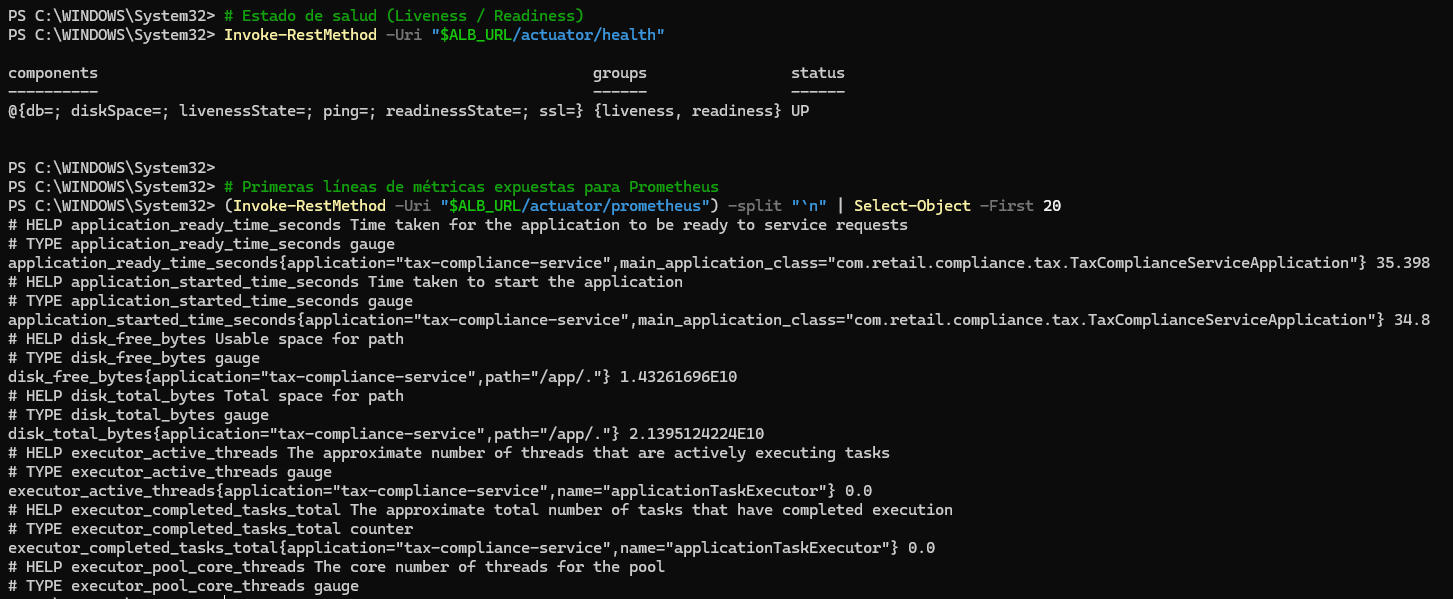
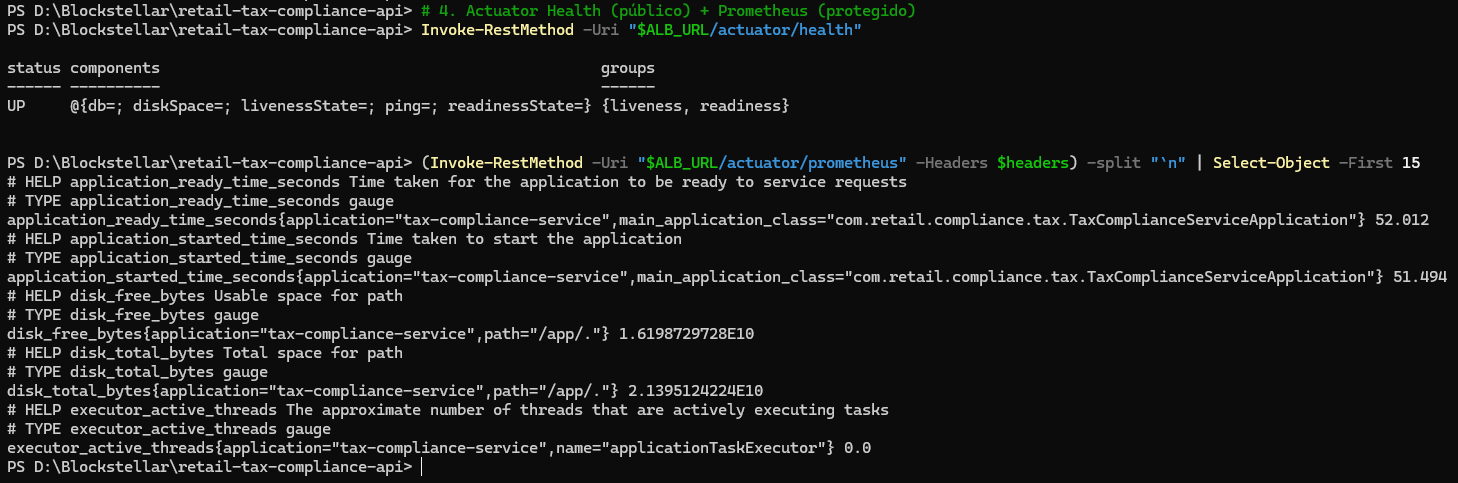
docs: update README with full guide, security notes and final screenshots

Changed region(s): [[0.0, 0.0, 0.9911, 0.9938]]

diff --git a/README.md b/README.md
@@ -1,8 +1,8 @@
 # Retail Tax & Compliance API (`tax-compliance-service`)
 
-Microservicio REST cloud-native desarrollado con **Java 21** y **Spring Boot 3** para el cálculo automatizado de impuestos indirectos (IVA/VAT) y validación de facturación internacional en operaciones de comercio minorista (*retail*), con persistencia en **PostgreSQL 16**, despliegue automatizado en **AWS EKS** mediante **Terraform** y **Kubernetes**, pipeline **CI/CD con GitHub Actions** y observabilidad en tiempo real con **Prometheus** y **Grafana**.
+Microservicio REST cloud-native desarrollado con **Java 21** y **Spring Boot 3** para el cálculo automatizado de impuestos indirectos (IVA/VAT) y validación de facturación internacional en operaciones de comercio minorista (*retail*), con persistencia en **PostgreSQL 16**, pipeline CI/CD en **GitHub Actions**, despliegue automatizado en **AWS EKS** mediante **Terraform** y **Kubernetes**, y observabilidad en tiempo real con **Prometheus** y **Grafana**.
 
-> **Nota de Alcance:** Este proyecto constituye una **demostración tecnológica (Proof of Concept)** orientada a arquitectura Cloud y DevOps. Opera con un conjunto acotado de países (`ES`, `FR`, `DE`, `PT`) y reglas fiscales básicas, sin constituir una solución certificada de cumplimiento tributario oficial.
+> **Alcance del Proyecto:** Este sistema constituye una **prueba de concepto tecnológica (PoC)** centrada en un conjunto acotado de países europeos (`ES`, `FR`, `DE`, `PT`) y reglas fiscales representativas. No sustituye a una solución certificada de cumplimiento tributario en producción.
 
 ---
 
@@ -10,36 +10,21 @@ Microservicio REST cloud-native desarrollado con **Java 21** y **Spring Boot 3**
 
 ![Diagrama de Arquitectura](docs/architecture.png)
 
-El sistema sigue una arquitectura desacoplada sobre **Amazon EKS** en una única región (`eu-west-1`) dividida en dos namespaces aislados:
+La arquitectura separa responsabilidades mediante dos namespaces aislados dentro de **Amazon EKS (`eu-west-1`)**:
 
-* **`tax-app`:** Expone el microservicio `tax-compliance-api` (2 réplicas detrás de un AWS Load Balancer) conectado por red interna (`ClusterIP`) a un `StatefulSet` de PostgreSQL 16 respaldado por almacenamiento persistente EBS (`gp2`) gestionado mediante el driver `aws-ebs-csi-driver`.
-    * *Decisión de arquitectura:* Se despliega PostgreSQL dentro del clúster para optimizar costes en el entorno de demostración; en un escenario productivo se migraría a **Amazon RDS** gestionado con alta disponibilidad Multi-AZ.
-* **`monitoring`:** Ejecuta el stack de observabilidad (`kube-prometheus-stack`), recolectando métricas autenticadas mediante un `ServiceMonitor` desde `/actuator/prometheus` y evaluando reglas de alerta personalizadas (`PrometheusRule`).
-
----
-
-## Seguridad, CI/CD y FinOps
-
-* **Seguridad de Endpoints y Credenciales:**
-    * Los endpoints de auditoría (`/api/v1/compliance/audits`) y métricas (`/actuator/prometheus`) están protegidos mediante **Spring Security (HTTP Basic)** con credenciales inyectadas desde `Secrets` de Kubernetes (`tax-app-secret` y `prometheus-scrape-secret`), sin credenciales almacenadas en el repositorio.
-    * **Grafana** permanece aislado en red interna (`ClusterIP`) sin exposición pública a Internet, accediendo únicamente mediante túnel cifrado (`kubectl port-forward`).
-    * **Principio de mínimo privilegio en IAM:** El grupo de nodos de EKS limita sus políticas adicionales exclusivamente a `AmazonEBSCSIDriverPolicy` para la gestión de volúmenes persistentes.
-* **Automatización CI/CD (GitHub Actions):**
-    * Workflow `.github/workflows/ci-cd.yml` que ejecuta automáticamente los tests unitarios con Maven y base de datos en memoria H2, construye la imagen Docker multi-stage y la publica en DockerHub (`romeroperezpaula/tax-compliance-service:latest` y tag por SHA de commit) en cada `push` a `main`.
-* **Gestión de Costes (FinOps):**
-    * Desarrollo y pruebas iniciales 100 % en local con Docker Compose, desplegando en AWS únicamente durante la fase de validación y grabación.
-    * Alerta presupuestaria configurada en **AWS Budgets** ($15.00 USD/mes) y destrucción completa de recursos mediante `terraform destroy` verificando ausencia de volúmenes EBS o Load Balancers residuales.
+* **`tax-app`:** Ejecuta 2 réplicas del microservicio `tax-compliance-api` detrás de un **AWS Load Balancer (ELB)** público, conectadas por red interna (`ClusterIP`) a un `StatefulSet` de **PostgreSQL 16** respaldado por almacenamiento persistente **AWS EBS CSI (`gp2`)**. *(Nota de diseño: para esta demo se despliega PostgreSQL dentro del clúster para optimizar costes; en un entorno productivo de alta disponibilidad se valoraría migrar a **Amazon RDS**).*
+* **`monitoring`:** Ejecuta `kube-prometheus-stack` (Prometheus + Grafana). Prometheus recolecta métricas autenticadas desde `/actuator/prometheus` mediante un `ServiceMonitor` con `basicAuth`. **Grafana permanece aislado en red interna (`ClusterIP`)** sin exposición pública, accediendo exclusivamente mediante túnel cifrado (`kubectl port-forward`).
 
 ---
 
-## Stack Tecnológico
+## Seguridad, Automatización y FinOps
 
-* **Backend:** Java 21, Spring Boot 3.3.5 (Spring Web, Spring Data JPA, Spring Security, Validation, Actuator + Micrometer Prometheus)
-* **Base de Datos:** PostgreSQL 16 (`postgres:16-alpine`) con almacenamiento persistente EBS (`gp2`) + H2 para tests CI
-* **Contenedorización y CI/CD:** Docker (build multi-stage), DockerHub y GitHub Actions
-* **Infraestructura como Código (IaC):** Terraform (`terraform-aws-modules/vpc/aws` y `terraform-aws-modules/eks/aws` en `eu-west-1`)
-* **Orquestación:** Kubernetes en Amazon EKS (Namespaces, ConfigMaps, Secrets, StatefulSets, PVCs, Deployments con Liveness/Readiness probes, Services LoadBalancer/ClusterIP)
-* **Observabilidad y Alertas:** `kube-prometheus-stack` (Helm), `ServiceMonitor` autenticado y `PrometheusRule`
+* **Seguridad Aplicada:**
+    * Endpoints sensibles (`/api/v1/compliance/audits` y `/actuator/prometheus`) protegidos mediante **Spring Security (HTTP Basic Auth)** con credenciales inyectadas desde **Kubernetes Secrets** (sin credenciales hardcodeadas en el repositorio).
+    * Imagen Docker multi-stage ejecutada bajo usuario sin privilegios (`spring`).
+    * Principio de mínimo privilegio en los roles IAM de EKS (`AmazonEBSCSIDriverPolicy`).
+* **CI/CD con GitHub Actions:** Cada `push` a `main` ejecuta automáticamente los tests unitarios con Maven y H2, construye la imagen Docker y la publica en DockerHub (`romeroperezpaula/tax-compliance-service:latest` y tag por SHA de commit).
+* **Control FinOps:** Desarrollo local-primero con Docker Compose, presupuesto configurado en **AWS Budgets ($15.00 USD)** con alertas al 80 % y destrucción completa de infraestructura tras las pruebas (`terraform destroy`).
 
 ---
 
@@ -47,12 +32,12 @@ El sistema sigue una arquitectura desacoplada sobre **Amazon EKS** en una única
 
 | Método | Ruta | Acceso | Descripción |
 | :--- | :--- | :--- | :--- |
-| `GET` | `/api/v1/tax-rules/{countryCode}` | Público | Consulta los tipos impositivos vigentes y regex de validación fiscal por país (`ES`, `FR`, `DE`, `PT`) |
-| `POST` | `/api/v1/tax/calculate` | Público | Calcula el impuesto aplicable y el importe total según país, `baseAmount` y `productCategory` |
-| `POST` | `/api/v1/compliance/validate-invoice` | Público | Valida una factura (formato NIF/VAT y cuadre de importes) y registra la auditoría en PostgreSQL |
-| `GET` | `/api/v1/compliance/audits` | Protegido (Basic Auth) | Lista el historial de auditorías registradas |
-| `GET` | `/actuator/health` | Público | Estado de salud del microservicio (`liveness` y `readiness`) |
-| `GET` | `/actuator/prometheus` | Protegido (Basic Auth) | Métricas JVM, CPU y tráfico HTTP en formato Prometheus |
+| `GET` | `/api/v1/tax-rules/{countryCode}` | Público | Consulta los tipos impositivos y regex fiscal vigentes (`ES`, `FR`, `DE`, `PT`) |
+| `POST` | `/api/v1/tax/calculate` | Público | Calcula el IVA aplicable y el importe total según país, `baseAmount` y `productCategory` |
+| `POST` | `/api/v1/compliance/validate-invoice` | Público | Valida una factura (formato NIF/VAT y cuadre fiscal) y registra la auditoría en PostgreSQL |
+| `GET` | `/api/v1/compliance/audits` | **Basic Auth** | Lista el historial de auditorías registradas |
+| `GET` | `/actuator/health` | Público | Estado de salud (`liveness` y `readiness`) para las sondas de Kubernetes |
+| `GET` | `/actuator/prometheus` | **Basic Auth** | Métricas JVM, CPU y latencia HTTP en formato Prometheus |
 
 ---
 
@@ -60,106 +45,102 @@ El sistema sigue una arquitectura desacoplada sobre **Amazon EKS** en una única
 
 ### 1. Ejecución en Local (Maven + PostgreSQL)
 
-1. Arranca únicamente la base de datos PostgreSQL con Docker:
-   ```bash
-   docker compose up -d postgres
-   ```
-2. Ejecuta la aplicación Spring Boot desde `app/`:
-   ```bash
-   cd app
-   ./mvnw spring-boot:run
-   ```
-3. La API estará disponible en `http://localhost:8080`.
+    docker compose up -d postgres
+    cd app
+    ./mvnw spring-boot:run
+
+La API estará disponible en `http://localhost:8080`.
 
 ### 2. Ejecución con Docker y Docker Compose
 
-1. Levanta todo el entorno (API + PostgreSQL) construyendo la imagen multi-stage:
-   ```bash
-   docker compose up --build -d
-   ```
-2. Comprueba los contenedores activos y prueba un endpoint:
-   ```bash
-   docker compose ps
-   curl http://localhost:8080/api/v1/tax-rules/ES
-   ```
-3. Para detener y limpiar el entorno local:
-   ```bash
-   docker compose down -v
-   ```
+    docker compose up --build -d
+    docker compose ps
+    curl http://localhost:8080/api/v1/tax-rules/ES
 
-*(Imagen pública disponible en DockerHub: `docker pull romeroperezpaula/tax-compliance-service:latest`)*
+Para detener y limpiar el entorno local:
+
+    docker compose down -v
 
 ### 3. Despliegue en AWS EKS con Terraform, Kubernetes y Prometheus/Grafana
 
-1. **Provisionar la infraestructura con Terraform:**
-   ```bash
-   cd terraform
-   terraform init
-   terraform apply -auto-approve
-   ```
-2. **Conectar `kubectl` y desplegar la aplicación (`tax-app`):**
-   ```bash
-   aws eks --region eu-west-1 update-kubeconfig --name retail-tax-eks
-   cd ..
-   kubectl apply -f k8s/
-   kubectl get pods -n tax-app
-   kubectl get svc tax-compliance-service -n tax-app
-   ```
-3. **Instalar Prometheus y Grafana (`monitoring`):**
-   ```bash
-   helm repo add prometheus-community [https://prometheus-community.github.io/helm-charts](https://prometheus-community.github.io/helm-charts)
-   helm repo update
-   helm install prometheus-stack prometheus-community/kube-prometheus-stack --namespace monitoring --create-namespace
-   kubectl apply -f monitoring/servicemonitor-and-alert.yaml
-   ```
-4. **Acceso a Grafana en tiempo real:**
-   ```bash
-   kubectl port-forward -n monitoring svc/prometheus-stack-grafana 3000:80
-   ```
-   Accede a `http://localhost:3000` (usuario `admin`; contraseña almacenada en el secret `prometheus-stack-grafana` del namespace `monitoring`) e importa el dashboard **19004** (*Spring Boot 3.x Statistics*).
-5. **Limpieza de recursos en AWS (FinOps):**
-   ```bash
-   kubectl delete -f k8s/ --ignore-not-found
-   cd terraform
-   terraform destroy -auto-approve
-   ```
+**A. Provisionar VPC y clúster EKS con Terraform:**
+
+    cd terraform
+    terraform init
+    terraform apply -auto-approve
+
+**B. Conectar `kubectl` y desplegar la aplicación (`tax-app`):**
+
+    aws eks --region eu-west-1 update-kubeconfig --name retail-tax-eks
+    cd ..
+    kubectl apply -f k8s/
+    kubectl get pods -n tax-app
+    kubectl get svc tax-compliance-service -n tax-app
+
+**C. Instalar Prometheus y Grafana (`monitoring`):**
+
+    helm repo add prometheus-community https://prometheus-community.github.io/helm-charts
+    helm repo update
+    helm install prometheus-stack prometheus-community/kube-prometheus-stack --namespace monitoring --create-namespace
+    kubectl create secret generic prometheus-scrape-secret -n monitoring --from-literal=username=admin --from-literal=password=TaxCompliance2026!
+    kubectl apply -f monitoring/servicemonitor-and-alert.yaml
+
+**D. Acceso seguro a Grafana (túnel interno):**
+
+    kubectl port-forward -n monitoring svc/prometheus-stack-grafana 3000:80
+
+Accede a `http://localhost:3000` (usuario `admin`, contraseña almacenada en el secret `prometheus-stack-grafana` del namespace `monitoring`) e importa el dashboard **19004** (*Spring Boot 3.x Statistics*).
+
+**E. Limpieza de recursos en AWS (FinOps):**
+
+    kubectl delete -f k8s/ --ignore-not-found
+    cd terraform
+    terraform destroy -auto-approve
 
 ---
 
-## Evidencias del Despliegue, CI/CD y FinOps
+## Evidencias del Despliegue y Validación
 
-### 1. Pipeline CI/CD Automatizado (GitHub Actions & DockerHub)
-![GitHub Actions Pipeline](docs/github-actions.png)
-![Imagen en DockerHub](docs/dockerhub-image.png)
+### 1. Pipeline CI/CD y Registro de Contenedores
+![GitHub Actions CI/CD](docs/github-actions.png)
+![DockerHub Tags](docs/dockerhub-image.png)
 
-### 2. Provisión de Infraestructura con Terraform y Clúster EKS
+### 2. Control Presupuestario FinOps (AWS Budgets)
+![AWS Budgets](docs/aws-budget.png)
+
+### 3. Provisión en AWS EKS y Orquestación Kubernetes
 ![Terraform Apply](docs/terraform-apply.png)
-![Pods y Servicios en EKS](docs/eks-pods-services.png)
+![EKS Pods y Servicios](docs/eks-pods-services.png)
 
-### 3. Pruebas End-to-End contra el AWS Load Balancer
-![Consulta de Reglas Fiscales](docs/api-tax-rules.png)
-![Cálculo de Impuestos](docs/api-calculate.png)
-![Validación de Facturas](docs/api-validate-invoice.png)
-![Historial de Auditorías](docs/api-compliance-audits.png)
+### 4. Pruebas End-to-End (Endpoints Públicos y Autenticados)
+* **Consulta de reglas fiscales (`GET /api/v1/tax-rules/{countryCode}`):**
+  ![Tax Rules](docs/api-tax-rules.png)
 
-### 4. Observabilidad, Pruebas de Carga y Alertas en Grafana
-![Dashboard Grafana Spring Boot 3](docs/grafana-springboot-dashboard.png)
-![Alerta Personalizada TaxComplianceApiDown](docs/grafana-alerts.png)
+* **Cálculo de impuestos (`POST /api/v1/tax/calculate`):**
+  ![Tax Calculate](docs/api-calculate.png)
 
-### 5. Control de Costes (AWS Budgets)
-![Presupuesto AWS Budgets](docs/aws-budget.png)
+* **Validación de facturas (`POST /api/v1/compliance/validate-invoice`):**
+  ![Validate Invoice](docs/api-validate-invoice.png)
+
+* **Historial de auditorías protegido con HTTP Basic Auth (`GET /api/v1/compliance/audits`):**
+  ![Compliance Audits](docs/api-compliance-audits.png)
+
+* **Healthchecks y métricas protegidas de Actuator (`/actuator/health` y `/actuator/prometheus`):**
+  ![Actuator Prometheus](docs/actuator.png)
+
+### 5. Observabilidad y Alertas en Tiempo Real (Prometheus & Grafana)
+![Grafana Spring Boot 3 Dashboard](docs/grafana-springboot-dashboard.png)
+![Grafana Alert Rules](docs/grafana-alerts.png)
 
 ---
 
 ## Estructura del Repositorio
 
-```text
-retail-tax-compliance-api/
-├── .github/workflows/ci-cd.yml # Pipeline CI/CD (tests Maven + H2, build Docker y push a DockerHub)
-├── app/                        # Código fuente Java 21 / Spring Boot 3, Spring Security y Dockerfile
-├── k8s/                        # Manifiestos de Kubernetes (Namespace, ConfigMap, Secrets, Postgres StatefulSet, API Deployment)
-├── terraform/                  # Infraestructura como Código en AWS (VPC, Subredes, IAM mínimo privilegio, EKS Cluster)
-├── monitoring/                 # ServiceMonitor con Basic Auth y PrometheusRule para alertas
-├── docs/                       # Diagrama de arquitectura y capturas de despliegue, CI/CD, Grafana y AWS Budgets
-└── docker-compose.yml          # Orquestación local de desarrollo
-```
+    retail-tax-compliance-api/
+    ├── .github/workflows/      # Pipeline CI/CD automatizado con GitHub Actions
+    ├── app/                    # Código fuente Java 21 / Spring Boot 3, tests unitarios y Dockerfile
+    ├── k8s/                    # Manifiestos de Kubernetes (Namespace, ConfigMap, Secrets, Postgres StatefulSet, API Deployment)
+    ├── terraform/              # Infraestructura como Código en AWS (VPC, Subredes, IAM mínimo privilegio, EKS Cluster)
+    ├── monitoring/             # ServiceMonitor autenticado y PrometheusRule para alertas
+    ├── docs/                   # Diagrama de arquitectura y capturas de despliegue/validación
+    └── docker-compose.yml      # Orquestación local de desarrollo
